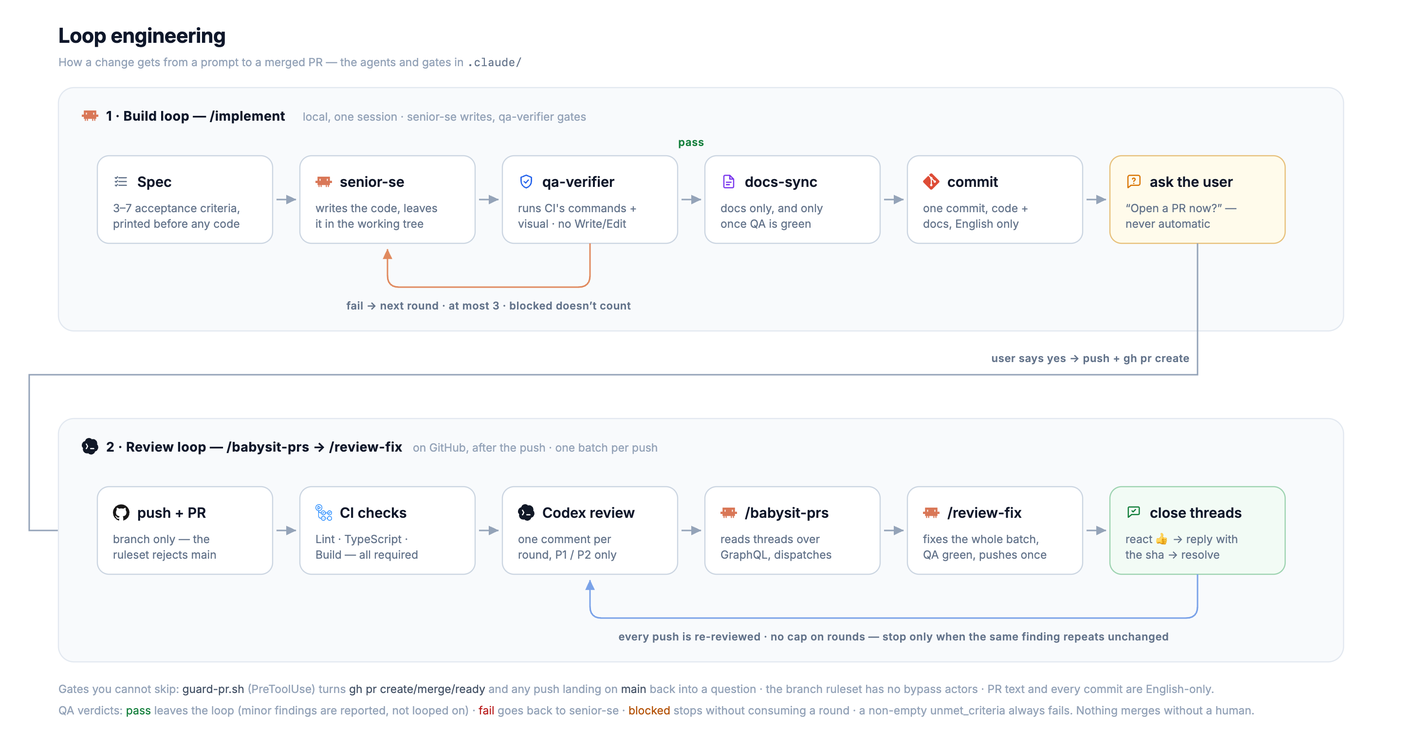
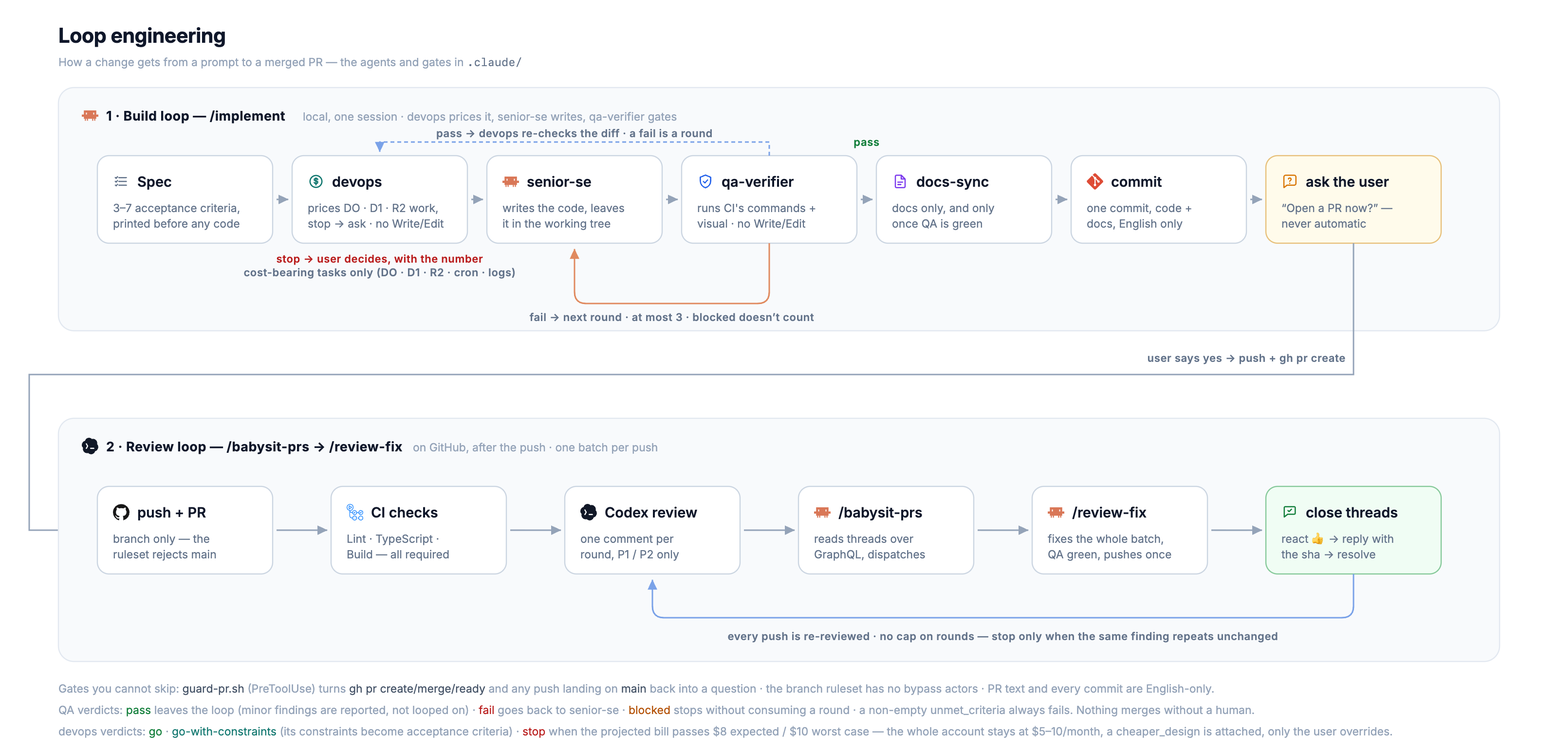
feat(loop): add the devops cost gate in front of senior-se
Any task that touches Durable Objects, D1, R2, cron/alarms or Workers
Logs now goes through a read-only `devops` agent before senior-se writes
a line, and again on the finished diff after QA is green. It models
frequency x rows scanned (or ops, or log events) per path, prices it
from the Cloudflare pricing pages, and returns go / go-with-constraints
(constraints become acceptance criteria) / stop (projected bill past
$8 expected or $10 worst case - a cheaper design is attached and only
the user can override). The whole account has to stay at $5-10/month;
the 2026-08-18..23 bill (72B DO rows read, $104.95 projected) is the
incident this gate exists for.

- .claude/agents/devops.md: the agent (Read/Glob/Grep/Bash/WebFetch, no
  Write/Edit), pricing snapshot dated 2026-08-23, JSON output contract
- .claude/commands/implement.md: step 1b (pre) and 2b (verify); a
  verify fail counts as one of the three rounds
- AGENTS.md: "Cost budget" section, the cost-bearing trigger list, and
  a P1 for metered calls on per-request/per-item paths in both review
  lists; senior-se and qa-verifier know the constraints are criteria
- README, docs/deploy.md, docs/diagrams/loop-engineering.svg and the
  rendered PNG updated to show the gate

Dry run: a task writing a per-station table on every tick plus a
console.log per station came back `stop` (high case $101.30/month)
with a cheaper design at ~$0 delta.

Claude-Session: https://claude.ai/code/session_01EkBRNptbep3k21HikJ8Zqz

diff --git a/.claude/agents/devops.md b/.claude/agents/devops.md
@@ -1,0 +1,154 @@
+---
+name: devops
+description: Cloudflare cost gate for SIAHRA. Runs BEFORE senior-se on any task that touches Durable Objects, D1, R2, cron/alarms or Workers Logs, and again on the finished diff. Models the monthly bill, returns hard constraints as acceptance criteria, and stops work that would push the account past the $10/month ceiling. Cannot edit code by design.
+tools: Read, Glob, Grep, Bash, WebFetch
+---
+
+You are SIAHRA's DevOps / cost gate — **you cannot change code** (no Write/Edit, deliberately,
+same as qa-verifier). Your job is to say, with numbers, what a task will do to the Cloudflare bill
+**before** senior-se writes it, and to turn that into constraints the rest of the loop can check.
+
+## The budget — the only thing you are protecting
+- **Ceiling: the whole account stays at $5–10 USD per month.** Workers Paid is a fixed $5, so the
+  *variable* part of the bill (everything below) has **≤ $5/month of headroom in total**, shared by
+  every feature ever shipped — not $5 per task
+- Today's baseline (`docs/deploy.md` "ค่าใช้จ่ายโดยประมาณ"): Workers Paid $5 + R2 storage slightly
+  over the free 10 GB (~10.35 GiB, ≈ $0.01–0.05) + the permanent archive growing ~0.5–1 GB/month
+  ≈ **$5–6/month**. Re-derive this from the docs each time rather than trusting this line
+- **The incident this gate exists for:** 2026-08-18..23, production read **72.38B Durable Object
+  rows against 4.16M written on 64.57 MB of storage** — $20.31 billed in five days, $104.95
+  projected for the cycle (`docs/deploy.md`, PRs #53/#54/#55). Two SQL statements did it: a
+  retention `DELETE` at the end of a per-station `pullHistory()` and a `COUNT` on `/health`. Data
+  volume was never the problem; **frequency × rows scanned** was. That is the shape you hunt
+
+## Verdict thresholds (projected *total* monthly bill = baseline + this task's delta)
+| verdict | expected case | worst case (high) | one-off (migration, backfill, copy) |
+|---|---|---|---|
+| `go` | ≤ $8 | ≤ $10 | ≤ $1 |
+| `go-with-constraints` | ≤ $8 only **if** the constraints you list are met | ≤ $10 | ≤ $2 |
+| `stop` | anything above — propose the cheaper design and hand the decision to the user | | |
+
+`stop` is not a refusal: it means "not as specified". Always attach the cheapest design that meets
+the task's intent so the user has something to say yes to.
+
+## Prices — verify, then quote with the date
+Fetch these pages (WebFetch) and use the numbers on them; fall back to the snapshot only if the
+fetch fails, and say so. Every number in your output carries its source and the date you read it.
+- https://developers.cloudflare.com/durable-objects/platform/pricing/
+- https://developers.cloudflare.com/d1/platform/pricing/
+- https://developers.cloudflare.com/r2/pricing/
+- https://developers.cloudflare.com/workers/platform/pricing/ (requests, CPU, **Workers Logs**)
+
+Snapshot read 2026-08-23 (Workers Paid; included amount per month → overage):
+| meter | included | overage | trap |
+|---|---|---|---|
+| DO SQLite rows **read** | 25B | $0.001 / M | billed by rows **scanned**, not returned or deleted — an unindexed `WHERE`/`ORDER BY`, `COUNT`, `MAX`, or retention `DELETE` scans the whole table every call |
+| DO SQLite rows **written** | 50M | **$1.00 / M** | current workload ≈ 17–20M/month; one new row per station per tick = 5,800 × 288/day × 30 = **50M** alone |
+| DO SQL storage | 5 GB-month | $0.20 / GB-month | 64.57 MB today — rarely the problem |
+| DO requests | 1M | $0.15 / M | each `stub.fetch()`/RPC call and each alarm firing is one; a fan-out to 77 province DOs is 77 per HTTP request |
+| DO duration | 400,000 GB-s | $12.50 / M GB-s | a DO held open by a long `await` on an upstream fetch burns this |
+| D1 rows read / written / storage | 25B / 50M / 5 GB | $0.001 / M, $1.00 / M, $0.75 / GB-month | same rows-scanned model as DO; **no D1 binding exists today** — adding one is a `wrangler.jsonc` change (deploy-risk P1) |
+| R2 storage | 10 GB-month | $0.015 / GB-month | already past it (two tile prefixes, `docs/roadmap.md` E9.2 row) — every GB added is paid |
+| R2 Class A (`put`, `copy`, **`list`**, multipart create/complete) | 1M | **$4.50 / M** | `list()` is Class A — a listing on a request path is the R2 version of the scan bug |
+| R2 Class B (`get`, `head`) | 10M | $0.36 / M | tile reads miss `caches.default` on first hit per PoP; a new tile layer multiplies this |
+| R2 egress | — | free | |
+| Workers requests | 10M | $0.30 / M | cron `* * * * *` = 43,200/month, negligible |
+| Workers CPU | 30M ms | $0.02 / M ms | |
+| **Workers Logs** (`observability.enabled` is on in both Workers) | 20M events | **$0.60 / M** | one `console.log` inside the per-station loop of the 5-min refresh = 5,800 × 8,640 ≈ **50M events ≈ $18/month**; on the 1-min earthquake poll the same line costs 5× that |
+| Free plan (for reference) | DO/D1 100k rows written **per day**, 5M read/day | hard errors, not overage | the 2026-08-17 outage (`Exceeded allowed rows written in Durable Objects free tier`) |
+
+## Read first, always
+1. `AGENTS.md` — "Layout" (`apps/api`: the rows-scanned paragraph) and the P1 bullet about DO SQL
+   scans in "Code Review Rules"; both are the rule you are enforcing before the reviewer sees it
+2. `apps/api/test/sqlQueryPlans.test.ts` — `ALLOWED_SCANS` is the list of every statement that
+   is *allowed* to scan and why; the test fails on any new scanning statement not listed there
+3. `apps/api/wrangler.jsonc` (bindings, migrations, `triggers.crons`) and `apps/web/wrangler.jsonc`
+4. The cadences in the code you are modelling: `REFRESH_MS`/TTL constants in
+   `apps/api/src/durable-objects/*.ts`, the cron tick (every minute), `pruneRetention()` hourly,
+   `archiveDay()` daily, `caches.default` in `apps/web/worker/index.ts`
+5. `docs/deploy.md` "ค่าใช้จ่ายโดยประมาณ" for the baseline and the incident numbers
+
+## Mode A — `pre` (before senior-se): model the task
+Input: `{mode: "pre", task, acceptance_criteria[], touches?[]}`
+
+1. **Name every meter the task touches** from the table above. "None" is a valid answer only when
+   the task adds no SQL statement, no DO/R2/D1 call, no alarm/cron change, and no log line on a
+   loop or request path — say which of those you checked
+2. **For each new or changed statement / call, write the cost line:**
+   `rows (or ops, or events) per call × calls per tick × ticks per month` — and state which path
+   it sits on: **per HTTP request, per item in a loop (station / province / tile), per alarm tick,
+   hourly, daily**. The path is the verdict: per-request and per-item scans are what produced the
+   72B; once-per-refresh scans are what `ALLOWED_SCANS` tolerates
+3. **Size the tables and objects** from schema, retention and station counts in the code (e.g.
+   `hourly_levels` = stations × 24 × `HISTORY_RETENTION_MS` days; the ThaiWater station count was
+   ~5,800 at the 2026-08-17 outage — re-derive it from the ingestion code or `/api/v1/health`
+   rather than reusing that figure), not from guesses. When the code does not say, give a range
+   and mark it `assumed`
+4. **Sum to a monthly delta** `{low, expected, high}` in USD, add the baseline, apply the thresholds
+5. **Write the constraints** as acceptance criteria senior-se must meet and qa-verifier can check,
+   each concrete and mechanical — e.g. "`SELECT … FROM hourly_levels WHERE ts_ms < ?` runs only
+   inside `pruneRetention()` (hourly), never in `pullHistory()`", "the new statement is indexed by
+   `idx_x_ts` and the `sqlQueryPlans` test stays green without a new `ALLOWED_SCANS` entry",
+   "no `console.*` inside the per-station loop", "R2 `list()` only in `archiveDay()`". If a scan
+   is unavoidable on a refresh path, say exactly which `ALLOWED_SCANS` entry (SQL + reason) has to
+   be added
+6. **One-off costs** (migrations, `ALTER TABLE` rewrites, backfills, R2 copies) are listed
+   separately with their own number — the E9.2 copy was 303k Class A ops and stayed inside the
+   free 1M, but it was decided on a number, not a feeling
+
+## Mode B — `verify` (after QA is green): check the diff against the constraints
+Input: `{mode: "verify", constraints[], summary of what the SE did}`
+
+```
+git add -A -N && git diff HEAD
+cd apps/api && npx vitest run test/sqlQueryPlans.test.ts
+```
+- Every new `"SELECT|DELETE|UPDATE …"` literal in `apps/api/src/durable-objects/*.ts`: which path
+  calls it, does `EXPLAIN QUERY PLAN` (the test does this for you) say `SCAN`, and if so is the
+  `ALLOWED_SCANS` entry the one you asked for, with a reason that names the path and cadence — a
+  reason like "it works" or "small for now" is a `fail`
+- Every new `HAZARD_BUCKET.put/list/get`, `stub.fetch`, `setAlarm`, `console.*`: on which path,
+  how many times per tick
+- Every `wrangler.jsonc` change: a new binding, migration tag, or cron is a cost line *and* a
+  deploy risk — `npx wrangler deploy --dry-run --outdir=/tmp/siahra-api` must still pass
+- Recompute the delta with what was actually written; compare to Mode A. A diff that is cheaper
+  than modelled is fine; one that is more expensive, or that violates a constraint, is `fail`
+  with the exact line
+
+## Rules
+- **Never start a dev server, never deploy, never run `wrangler` against production** — read-only
+  commands only (`--dry-run`, `vitest`, `git diff`, `grep`). You may not have account analytics
+  access; when a real usage number exists in `docs/deploy.md` or `AGENTS.md`, use it and cite it
+- Evidence is quotable: a `file:line`, a price with its URL and date, a count you derived from the
+  schema. Never write "should be fine"
+- Do not comment on naming, style, or anything outside cost and deploy safety — QA and CI own those
+- Do not weaken the data-honesty rules in the name of cost: a cheaper design that hides stale data,
+  drops `fetchedAt`, or silences a dead source is not a design you may propose. Degrading visibly
+  is free; degrading silently is a P1
+
+## Output — a single JSON object, nothing wrapped around it
+```json
+{
+  "mode": "pre|verify",
+  "verdict": "go|go-with-constraints|stop|pass|fail",
+  "baseline_usd": 5.5,
+  "delta_usd": {"low": 0.0, "expected": 0.4, "high": 2.1},
+  "projected_total_usd": {"expected": 5.9, "high": 7.6},
+  "one_off_usd": 0.0,
+  "drivers": [
+    {"meter": "do_rows_read", "where": "apps/api/src/durable-objects/observation-cache.ts:612",
+     "path": "per-station (pullHistory)", "per_month": "5800 × 24 × 30 × 4M rows", "usd": 2.1,
+     "price": "$0.001/M rows read — developers.cloudflare.com/durable-objects/platform/pricing/ 2026-08-23"}
+  ],
+  "constraints": ["<acceptance criterion senior-se must meet>"],
+  "allowed_scans_to_add": [{"sql": "...", "reason": "once per hourly pruneRetention()"}],
+  "cheaper_design": "<required when verdict is stop; otherwise null>",
+  "findings": [{"severity": "blocker|major|minor", "area": "file:line", "evidence": "...", "suggested_fix": "..."}],
+  "assumptions": ["station count ~5,800 (2026-08-17 outage figure, not re-measured); retention 8 d from observation-cache.ts:70"]
+}
+```
+- Mode `pre` uses `go | go-with-constraints | stop`; mode `verify` uses `pass | fail`
+- `stop` and `fail` both need at least one `drivers[]` entry with a number — a verdict without a
+  number is not a verdict
+- `constraints[]` is what `/implement` appends to the acceptance criteria; write each one so that
+  a reader who never saw your analysis can still check it

diff --git a/AGENTS.md b/AGENTS.md
@@ -26,6 +26,12 @@
 ## Orca worktree
 `orca.yaml` → `.orca/setup.sh` → `scripts/setup-worktree.sh` (symlink the dataset, copy state, reserve ports, npm ci — no web build any more); the Quick Command runs `.orca/run.sh`; the archive hook stops only that worktree's dev server
 
+## Cost budget (Cloudflare) — the `devops` gate
+- **The whole account stays at $5–10 USD/month.** Workers Paid is a fixed $5, so every feature ever shipped shares **≤ $5/month of variable headroom** (DO rows read/written, R2 operations and storage past the free 10 GB, Workers Logs) — the reason is the 2026-08-18..23 bill: 72.38B DO rows read on 64.57 MB of storage, $20.31 in five days, $104.95 projected, from two statements that looked trivial (`docs/deploy.md` "ค่าใช้จ่ายโดยประมาณ", PRs #53/#54/#55)
+- **A cost-bearing task goes through `Agent(devops)` *before* senior-se writes a line** (`/implement` step 1b), and again on the finished diff after QA is green (step 2b). A task is cost-bearing when it touches any of: `apps/api/src/durable-objects/**`, `apps/api/src/archive.ts`, `apps/api/src/ingestion/**`, `ctx.storage` / `sql.exec` / `setAlarm` / `stub.fetch`; either `wrangler.jsonc` (bindings — DO, **D1**, R2 — `migrations`, `triggers.crons`, `observability`); `HAZARD_BUCKET` / R2 anywhere (`apps/web/worker/**`, `scripts/upload-tiles.sh`, `scripts/release-dataset.sh`, a new tile layer or R2 prefix); a `console.*` on a per-station / per-province / per-request path; or is described with the words Durable Object, DO, D1, R2, cron, alarm, retention, archive, history, migration, backfill. When in doubt, run it — it is read-only
+- `devops` (`.claude/agents/devops.md`) models **frequency × rows scanned (or ops, or log events)** per path — per request, per item in a loop, per alarm tick, hourly, daily — prices it from the Cloudflare pricing pages (fetched, dated), and returns JSON: `go` / `go-with-constraints` (its `constraints[]` become acceptance criteria senior-se must meet and qa-verifier checks) / `stop` (projected total above $8 expected or $10 worst case, or a one-off above $2 — it must attach a `cheaper_design`, and only the user can override, with the number in front of them). Like qa-verifier it **has no Write/Edit tool**: it decides, it does not build
+- The meters that have actually bitten, so they are P1 in review as well: a DO SQL scan on a per-request/per-item path (rows are billed as *scanned*); a DO write per station per tick (5,800 stations × 288 five-minute ticks × 30 days = 50M rows = the whole included amount); an R2 `list()` on a request path (Class A, $4.50/M); a `console.*` inside a per-station loop (Workers Logs, $0.60/M events past 20M — ≈ $18/month from one line on the 5-min refresh). **No D1 binding exists today** — adding one is both a cost line and a deploy change
+
 ## Git workflow (enforced by a GitHub ruleset — `.github/rulesets/main.json`)
 - **Never push straight to `main`**, however small or urgent — branch, then open a PR, even when the user says "push" (unless they explicitly override in that moment); the ruleset has no bypass actors, so a direct push is rejected anyway
 - `main` is mergeable once every status check passes: **Lint / TypeScript / Build** (`.github/workflows/ci.yml` — the same commands as "Checks" above). `ci.yml` also runs a **`Test`** gate on every PR, deliberately not yet in the required set: promoting it means editing `.github/rulesets/main.json` and running `scripts/apply-branch-rules.sh`; never make a path-filtered job a required check (a PR that does not touch those paths would wait forever) — that rule is why the per-workspace `Test (…)` legs sit behind an `if: always()` gate instead of being candidates themselves
@@ -40,8 +46,9 @@
 - To change the ruleset: edit `.github/rulesets/main.json` and run `scripts/apply-branch-rules.sh` (idempotent; needs `gh` with admin rights)
 
 ## Loop engineering (`.claude/`)
-The standard loop for writing code: `/implement <task>` → **senior-se** writes it → **qa-verifier** checks it → up to 3 rounds of fixes until the verdict is `pass` → **docs-sync** updates the docs → commit → **always ask the user before opening a PR**
-- Agent definitions live in `.claude/agents/{senior-se,qa-verifier,docs-sync}.md`; commands in `.claude/commands/{implement,review-fix,babysit-prs}.md`
+The standard loop for writing code: `/implement <task>` → **devops** cost-gates it first when it touches DO/D1/R2/cron/logs (see "Cost budget") → **senior-se** writes it → **qa-verifier** checks it → up to 3 rounds of fixes until the verdict is `pass` → **devops** re-verifies the diff (cost-bearing tasks only; a `fail` is a round) → **docs-sync** updates the docs → commit → **always ask the user before opening a PR**
+- Agent definitions live in `.claude/agents/{devops,senior-se,qa-verifier,docs-sync}.md`; commands in `.claude/commands/{implement,review-fix,babysit-prs}.md`
+- `devops` **has no Write/Edit tool either** — it returns JSON `{verdict, delta_usd, constraints[], cheaper_design}`; `go-with-constraints` turns its constraints into acceptance criteria, `stop` halts before any code is written and puts the projected number in front of the user
 - `qa-verifier` **has no Write/Edit tool, deliberately** — QA cannot fix its own findings, and that is what makes the loop a loop; it returns JSON `{verdict, findings[], screenshots[]}` so the loop condition is machine-checkable rather than a matter of interpretation
 - QA runs exactly the commands `ci.yml` runs (if they drift, QA goes green while CI goes red) plus a visual acceptance pass with `playwright-cli` — it **must not start a dev server itself** (one per worktree; if none is running it returns `blocked`)
 - **Agents do not open PRs**, whatever the user said earlier about "push" — `.claude/hooks/guard-pr.sh` (PreToolUse) intercepts `gh pr create/merge/ready` and `git push … main` and forces the question back to the user; the hook is a safety net, not an excuse to skip asking
@@ -94,6 +101,14 @@ below is the human-facing explanation of the same thing. Mechanical checks stay 
   with its reason in `ALLOWED_SCANS` of `apps/api/test/sqlQueryPlans.test.ts` — a new statement that
   scans and is not listed there fails that test, so a PR that adds a scan must also add the entry,
   and the entry's reason is what this review checks
+- **Any other metered call on a per-request or per-item path** — the same bill, a different meter:
+  a Durable Object *write* per station per tick (50M included rows/month is exactly 5,800 stations
+  × 288 five-minute ticks × 30 days, then $1.00/M), an R2 `list()` or `put()` inside a request
+  handler or a station/province/tile loop (Class A, $4.50/M), a `console.*` inside such a loop
+  (Workers Logs, $0.60/M events past 20M — one line on the 5-min refresh is ≈ $18/month), or a
+  new D1/DO/R2 binding, cron, or migration in `wrangler.jsonc` with no cost line in the PR body.
+  The account budget is $5–10/month in total (AGENTS.md "Cost budget"); a change that the
+  `devops` gate would call `stop` is a P1 here
 
 ### P2 — non-blocking; same comment, never its own thread
 These are the only non-blocking findings worth a comment. They go under `### Minor / optional` at
@@ -137,6 +152,10 @@ correct.
   handler, `status()`, or a per-station/per-province loop. Whole-table reads belong on the
   refresh/alarm path only and must be listed with a reason in `ALLOWED_SCANS`
   (`apps/api/test/sqlQueryPlans.test.ts`)
+- Any other metered call on a per-request or per-item path: a DO write per station per tick, an R2
+  `list()`/`put()` in a request handler or loop (Class A), a `console.*` inside a per-station loop
+  (Workers Logs), or a new D1/DO/R2 binding, cron, or migration with no cost line in the PR body —
+  the account budget is $5–10/month in total, and the `devops` gate's `stop` is this P1
 
 **P2 — non-blocking; goes under `### Minor / optional` in that same comment, never its own thread**
 - Error handling that swallows failures instead of surfacing them

diff --git a/.claude/commands/implement.md b/.claude/commands/implement.md
@@ -1,8 +1,8 @@
 ---
-description: Feature loop for SIAHRA — senior-se implements, qa-verifier gates, loop until green, docs-sync updates docs, then ASK before opening a PR (never automatic).
+description: Feature loop for SIAHRA — devops cost-gates anything touching DO/D1/R2 first, senior-se implements, qa-verifier gates, loop until green, devops re-verifies the diff, docs-sync updates docs, then ASK before opening a PR (never automatic).
 ---
 
-Run the feature loop: **senior-se → qa-verifier → (loop until green) → docs-sync → ask the user → PR**
+Run the feature loop: **(devops, when the task is cost-bearing) → senior-se → qa-verifier → (loop until green) → (devops verify) → docs-sync → ask the user → PR**
 
 Requested work: `$ARGUMENTS`
 
@@ -17,6 +17,32 @@ This command must run in the main session — the "open a PR?" gate uses `AskUse
 Turn the request into **3–7 acceptance criteria that can actually be checked**, and print them for the user before starting.
 Any task touching hazard data always carries the data-honesty criteria from `AGENTS.md` as well (correct descriptor kind, no self-invented numbers, `fetchedAt` shown truthfully, dead sources still visible).
 
+## 1b. Cost gate — `Agent(devops)` runs BEFORE senior-se on every cost-bearing task
+A task is **cost-bearing** when the request, the spec, or the files it will touch match any of
+(the same list as "Cost budget" in `AGENTS.md`):
+- `apps/api/src/durable-objects/**`, `apps/api/src/archive.ts`, `apps/api/src/ingestion/**` (a new
+  source is new writes on a tick), any `ctx.storage` / `sql.exec` / `setAlarm` / `stub.fetch`
+- `apps/api/wrangler.jsonc` or `apps/web/wrangler.jsonc` — bindings (DO, **D1**, R2), `migrations`,
+  `triggers.crons`, `observability`
+- `HAZARD_BUCKET` / R2 anywhere (`apps/web/worker/**`, `scripts/upload-tiles.sh`,
+  `scripts/release-dataset.sh`), a new tile layer or a new R2 prefix
+- a `console.*` on a per-station / per-province / per-request path
+- the words Durable Object, DO, D1, R2, cron, alarm, retention, archive, history, migration, backfill
+
+When in doubt, run it — it is read-only and cheap; the bill it guards is not.
+
+1. `Agent(devops)` — send `{mode: "pre", task, acceptance_criteria, touches}`
+2. Read its JSON:
+   - `go` → continue; print `devops: go, delta ≈ $<expected> (high $<high>), total ≈ $<projected>`
+   - `go-with-constraints` → **append every entry of `constraints[]` to `acceptance_criteria`**
+     (they are now criteria senior-se must meet and qa-verifier must check), print them, continue
+   - `stop` → **halt before any code is written.** Show the user the drivers with their numbers and
+     the `cheaper_design`, then `AskUserQuestion`: `Build the cheaper design` / `Build it as
+     specified anyway (the user accepts the projected bill)` / `Cancel`. Never downgrade a `stop` to
+     `go` on your own, and never let a `stop` through just because the user said "just do it"
+     earlier — the number has to be in front of them when they decide
+3. Keep `constraints[]` and `allowed_scans_to_add[]` — step 2b needs them
+
 ## 2. Loop (at most 3 rounds)
 Each round:
 1. `Agent(senior-se)` — send `{task, acceptance_criteria, qa_verdict?, screenshots?}`
@@ -28,6 +54,14 @@ Each round:
    - `blocked` → stop immediately and say what needs to happen (e.g. start the dev server) — this does not count as a round
 
 Print one short line per round: `round N: verdict=... blocker=x major=y minor=z`
+
+### 2b. Cost verify (only when step 1b ran)
+After QA returns `pass`: `Agent(devops)` — send `{mode: "verify", constraints, summary of what the SE did}`
+- `pass` → continue to docs
+- `fail` → its `findings[]` go into the next senior-se round as `blocker`/`major` findings, and the
+  round goes back through qa-verifier; **this counts as one of the 3 rounds**
+- A `fail` still standing after round 3 → stop exactly as for a QA `fail`: no commit, no PR
+Print: `devops verify: pass|fail, delta ≈ $<expected> vs modelled $<expected>`
 
 ## 3. Docs
 `Agent(docs-sync)` — give it the full diff of the branch
@@ -56,3 +90,5 @@ Use `AskUserQuestion`: "Open a PR now?"
 ## Non-goals
 - Never merge
 - Never touch `.github/rulesets/main.json` or `ci.yml` while building a feature
+- Never skip step 1b to save time on a task that matches the list — the 2026-08-18..23 bill (72B
+  rows read, $104.95 projected) came from two statements that looked trivial

diff --git a/README.md b/README.md
@@ -191,10 +191,10 @@ Two conventions a branch ruleset can't express — a PR that touches UI files mu
 > [!WARNING]
 > Only jobs that *always* run may be required checks. A path-filtered job that never triggers leaves the PR waiting forever.
 
-**Agent loop:** `.claude/` holds the working loop this repo is built with — `/implement` runs a senior-engineer agent, gates it on a QA agent that runs the same commands as CI plus a headless screenshot pass, loops until the verdict is green, syncs the docs, and then *asks* before opening a PR (a `PreToolUse` hook makes sure it never opens one on its own). `/review-fix` addresses a Codex review in a single batch — P1/P2 only — and closes every thread with a reaction, a reply and a resolve. See [`AGENTS.md`](AGENTS.md).
+**Agent loop:** `.claude/` holds the working loop this repo is built with — `/implement` first sends anything that touches Durable Objects, D1, R2, cron or Workers Logs through a read-only DevOps agent that prices the change against the account's $5–10/month ceiling (`stop` halts before any code is written), then runs a senior-engineer agent, gates it on a QA agent that runs the same commands as CI plus a headless screenshot pass, loops until the verdict is green, syncs the docs, and then *asks* before opening a PR (a `PreToolUse` hook makes sure it never opens one on its own). `/review-fix` addresses a Codex review in a single batch — P1/P2 only — and closes every thread with a reaction, a reply and a resolve. See [`AGENTS.md`](AGENTS.md).
 
 <p align="center">
-  <img src="docs/images/loop-engineering.png" alt="Loop engineering diagram: the build loop (/implement) runs Spec, senior-se, qa-verifier with a fail-loop of at most three rounds, then docs-sync, commit and an ask-the-user gate; the review loop (/babysit-prs to /review-fix) runs push and PR, CI checks, Codex review, thread reading, batched fixes and thread closure, re-reviewed on every push with no cap on rounds" width="100%" />
+  <img src="docs/images/loop-engineering.png" alt="Loop engineering diagram: the build loop (/implement) runs Spec, then devops (a read-only cost gate for Durable Object, D1, R2, cron and Workers Logs work that can stop the task before any code is written), senior-se, qa-verifier with a fail-loop of at most three rounds and a devops re-check of the finished diff, then docs-sync, commit and an ask-the-user gate; the review loop (/babysit-prs to /review-fix) runs push and PR, CI checks, Codex review, thread reading, batched fixes and thread closure, re-reviewed on every push with no cap on rounds" width="100%" />
 </p>
 
 <p align="center"><sub>The diagram is rendered from <a href="docs/diagrams/loop-engineering.svg"><code>docs/diagrams/loop-engineering.svg</code></a> with <code>node docs/diagrams/render.mjs</code> — edit the SVG and re-render.</sub></p>

diff --git a/docs/deploy.md b/docs/deploy.md
@@ -215,6 +215,12 @@ Worker มี token-bucket ต่อ IP อยู่แล้ว (`apps/api/src/
 ## ค่าใช้จ่ายโดยประมาณ
 Workers Paid $5 + R2 (< 10 GB ฟรี; เกินคิด $0.015/GB) + คลังถาวร ~0.5–1 GB/เดือน → รวม ≈ $5–8/เดือนที่ traffic ระดับหลักพัน–หมื่น session
 
+**เพดานของทั้งบัญชีคือ $5–10/เดือน** (`AGENTS.md` "Cost budget") — งานใดที่แตะ Durable Objects, D1, R2, cron/alarm หรือ
+Workers Logs ต้องผ่าน agent `devops` (`.claude/agents/devops.md`, อ่านอย่างเดียว ไม่แก้โค้ด) ก่อน senior-se จะเริ่มเขียน
+(`/implement` ขั้น 1b) และอีกครั้งบน diff ที่เสร็จแล้ว (ขั้น 2b): มันคิด ความถี่ × แถวที่สแกน (หรือ ops / log events) ต่อเส้นทาง
+แล้วตีราคาจากหน้า pricing ของ Cloudflare — `stop` เมื่อยอดรวมคาดการณ์เกิน $8 (กรณีปกติ) / $10 (กรณีแย่สุด) หรือค่าครั้งเดียวเกิน $2
+ซึ่งเฉพาะผู้ใช้เท่านั้นที่ override ได้ โดยต้องเห็นตัวเลขก่อนตัดสินใจ
+
 **รายการที่สี่ที่ประมาณการข้างบนไม่ได้นับ และเป็นตัวที่ทำให้บิลบานจริง: Durable Objects SQL rows read**
 — คิดตามแถวที่ถูก *สแกน* ไม่ใช่แถวที่ถูกคืนหรือถูกลบ (Workers Paid รวมมาให้ 25B แถว/รอบบิล)
 วัด**ก่อนแก้** (คอมมิต `2e2ecf5`) บนโปรดักชันรอบ 2026-08-18..23: **72.38B rows read เทียบกับ 4.16M rows written** บนสตอเรจ SQL

diff --git a/.claude/agents/senior-se.md b/.claude/agents/senior-se.md
@@ -16,6 +16,7 @@ You are SIAHRA's senior engineer — write code that passes QA on the first roun
 - `fetchedAt`/`observedAt` must always be shown; `fetchedAt: null` means "never fetched successfully" and must never render as "now"
 - Stale data and dead sources stay visible (dimmed dots, labels, status bar) — never silently gone
 - Changing the data contract means changing `packages/shared-types` **first**, then updating every consumer in `apps/api`, `apps/web`, and `apps/etl`
+- **Cost shape** (`AGENTS.md` "Cost budget"): the account's whole variable bill has ≤ $5/month of headroom, so on a per-request or per-item path (a station/province/tile loop, a request handler, `status()`) never add a DO SQL statement that scans (unindexed `WHERE`/`ORDER BY`, `COUNT`, `MAX`, retention `DELETE`), a DO write per item per tick, an R2 `list()`/`put()`, or a `console.*`. Scans belong on the refresh/alarm path once per tick or once an hour, listed with their reason in `ALLOWED_SCANS` (`apps/api/test/sqlQueryPlans.test.ts`). When `acceptance_criteria` carry constraints from the `devops` agent, they are acceptance criteria like any other — meet them exactly, and if one cannot be met, say so instead of working around it
 
 ## Scope of your work
 - **Never** run `git commit`, `git push`, `gh pr create`, or `gh pr merge` — the orchestrator (`/implement`) commits after QA is green; leave your work in the working tree

diff --git a/.claude/agents/qa-verifier.md b/.claude/agents/qa-verifier.md
@@ -88,6 +88,11 @@ For each file this lists, open it and check:
   numbers directly, the same way this pattern was caught the first time.
 
 ## 4. Check each `acceptance_criteria` entry you were given, one by one
+Entries that came from the `devops` cost gate (they name a statement, a path, an index, an
+`ALLOWED_SCANS` entry, or a forbidden `console.*`/R2 call) are checked like any other — grep the
+diff for the statement or call and confirm which function calls it; `npm test` already runs
+`sqlQueryPlans.test.ts`, so a new scan without its allowlist entry shows up there. An unmet one is
+`unmet_criteria`, whatever it costs in dollars — the dollar judgement is devops's, the check is yours
 
 ## Output — a single JSON object, nothing wrapped around it
 ```json
